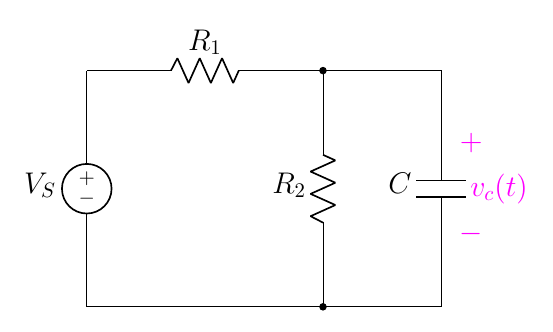
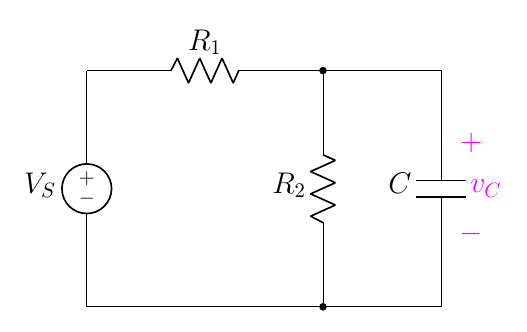
8.56

diff --git a/2.4 Driven RC/8.9 Driven RC Circuit/8.56(new).tex b/2.4 Driven RC/8.9 Driven RC Circuit/8.56(new).tex
@@ -26,6 +26,6 @@
     %%% find %%%
     % \node at(7.2,1.5) []{$t=0$};
     \draw[magenta](6.2,3)  
-        to[open,v^=$v_c(t)$] ++(0,-2);
+        to[open,v^=$v_C$] ++(0,-2);
 \end{circuitikz}
 \end{document}
